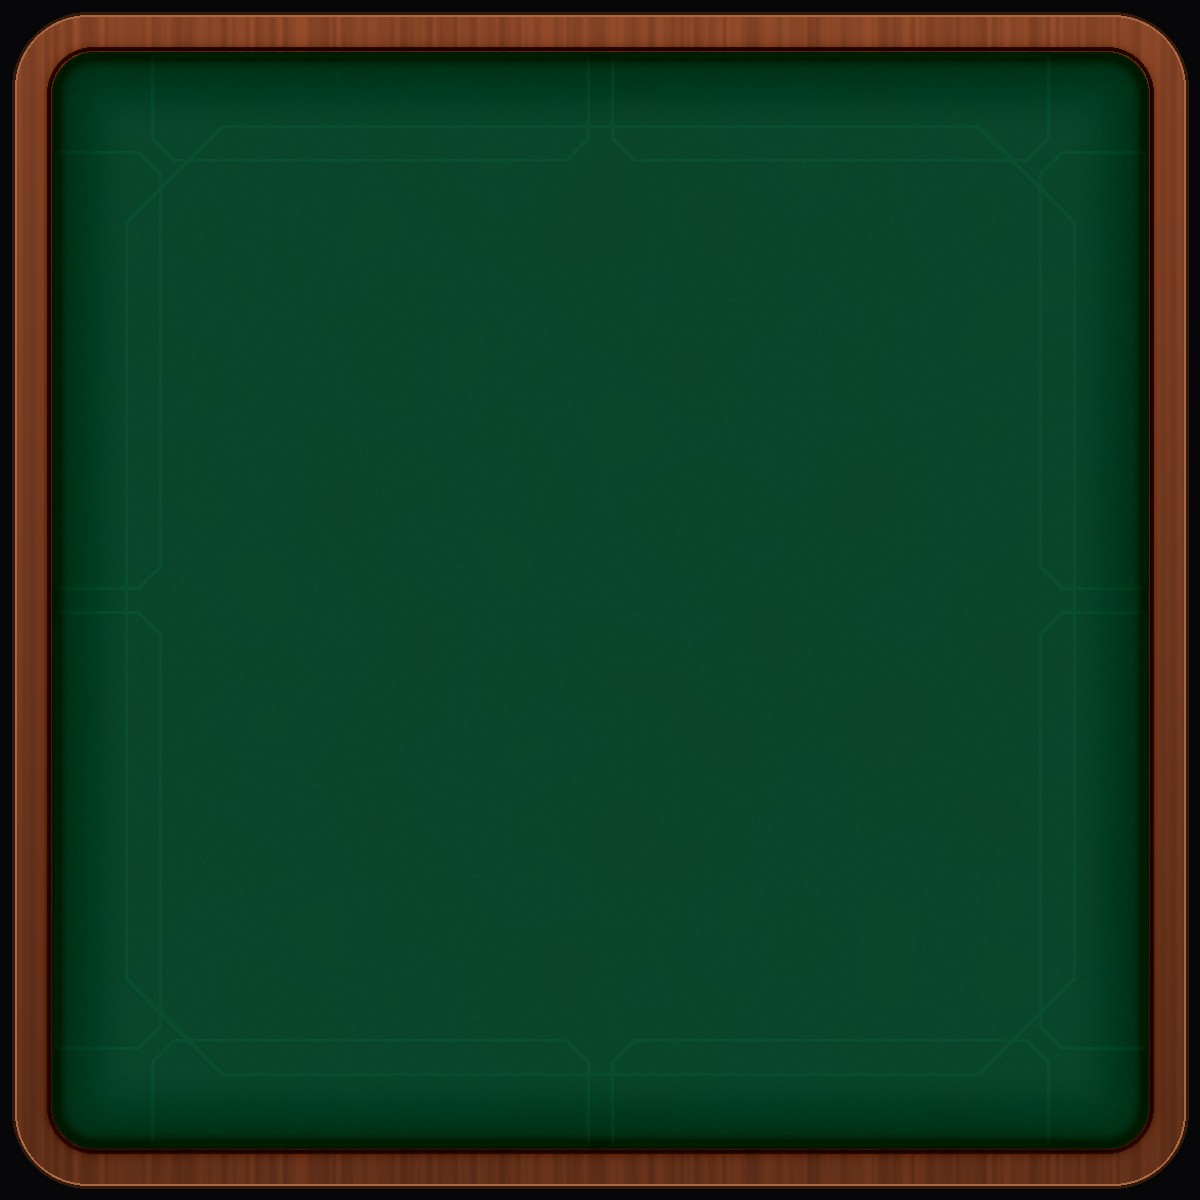
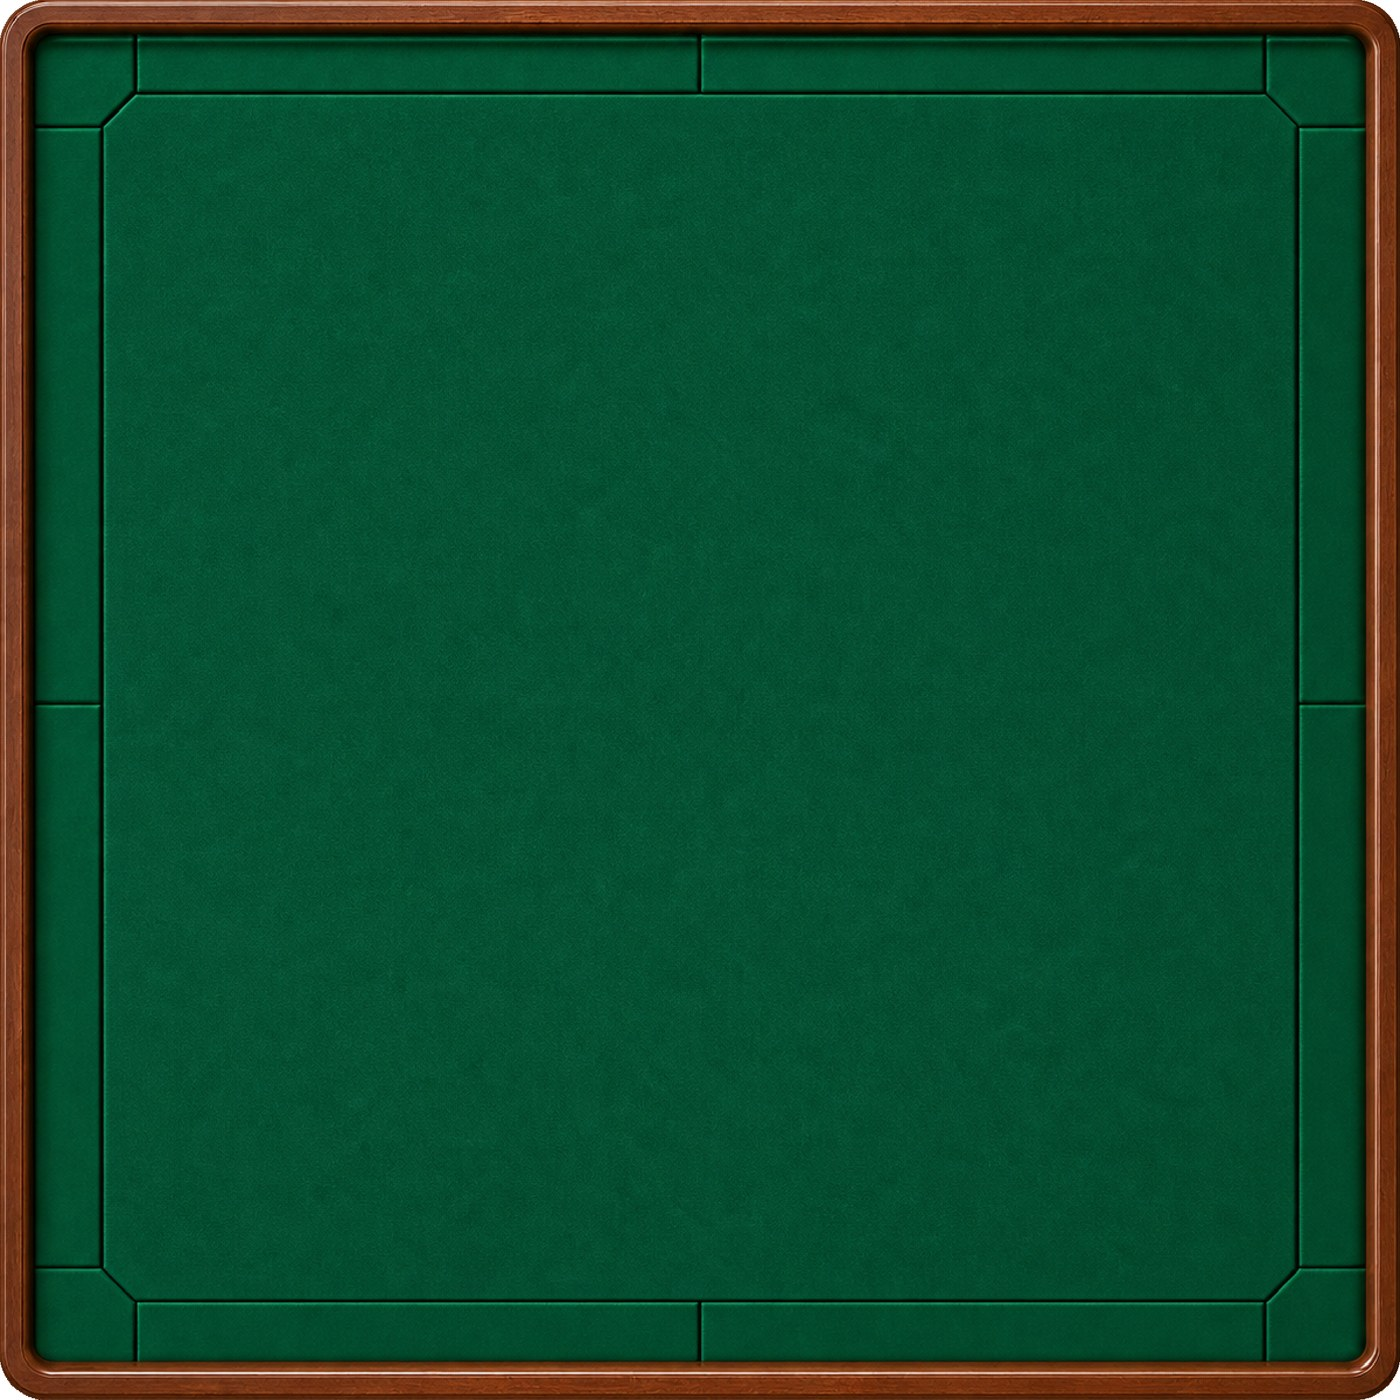
麻雀卓の画像を提供された本画像に差し替え
- 再現生成していた卓面を、提供された画像そのもの（1400px角・JPG化）に更新

Changed region(s): [[0.0, 0.0, 1.0, 1.0]]

diff --git a/dev/REQUESTS.md b/dev/REQUESTS.md
@@ -69,7 +69,7 @@ node dev/layout-check.js local.html [actions.js] [幅,幅,...]
 | 集計のレート換算が生点×レートで結果画面と食い違っていたのを、同じ五捨六入ptで計算するよう修正 | 監督 |
 | リーグで選んだウマが対局ルールに写らず、結果画面のポイント表示や履歴集計でウマが消えていたのを修正 | 監督 |
 | ウマの要素数が人数と合わないときの扱いを全画面で統一（適用せずウマなし扱い。合計が崩れるのを防止） | 監督 |
-| 卓上モードの麻雀卓画像を新デザイン（明るい木枠・鮮やかな緑）に差し替え | 監督 |
+| 卓上モードの麻雀卓画像をユーザー提供の新デザイン（明るい木枠・鮮やかな緑）に差し替え | 監督 |
 
 ## 完了（第2次・2026-08-21）
 
